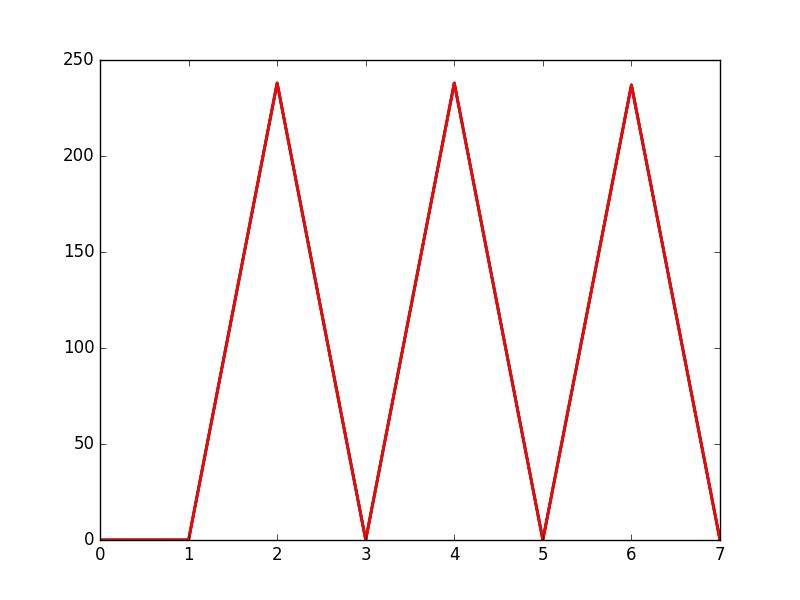
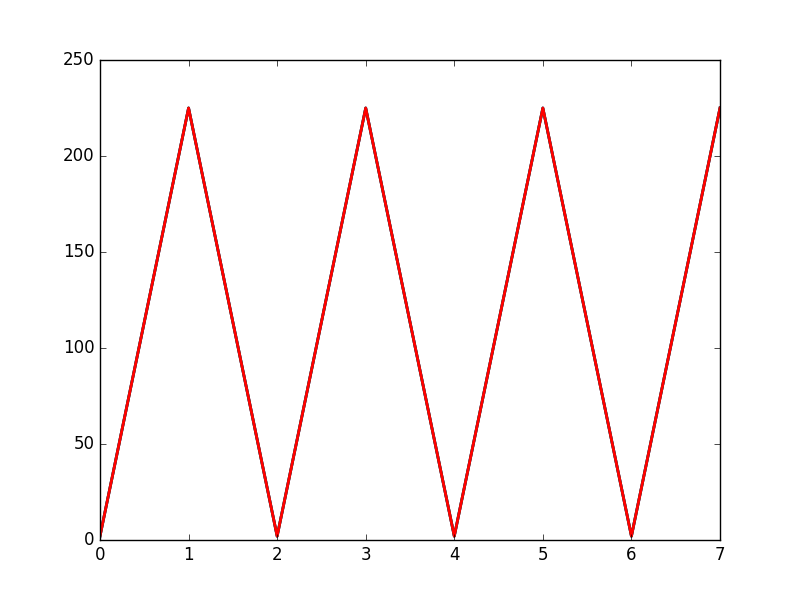
HW2: rewrite filter once again, fix some mistyping

diff --git a/task3-scaling/image_scaling.py b/task3-scaling/image_scaling.py
@@ -59,25 +59,26 @@ def part1():
     open("norm_row.txt", "w").write(str(cv2.norm(row4, scaled_up)))
 
 
-# filters the image with an ideal low frequency filter
+# filters an image row with an ideal low frequency filter
 def filter_low_freq(x, m, freq):
-    def gen_filter():
-        fltr = np.zeros((m + 1, 3))
-        for i in range(0, m + 1):
-            d = i - m / 2
-            for c in range(0, 3):
-                fltr[i][c] = 0.5 * (1 - cos(2 * pi * i / m)) * sin(freq * d) / (pi * d) if d != 0 else np.nan
-        return fltr
+    size = len(x)
+    fltr = np.zeros(size)
 
-    f = gen_filter()
-    n = len(x)
-    res = np.zeros((n, 3))
-    for n in range(0, n):
-        for k in range(max(0, n - m), n):
-            if np.isnan(f[n - k][0]):
-                res[n] = x[k]
-                break
-            res[n] += x[k] * f[n - k]
+    for n in range(0, m):
+        d = n - m / 2
+        w = 0.3 - 0.5 * cos(2 * pi * n / m)
+        if d != 0:
+            fltr[n] = sin(freq * d) / (pi * d) * w
+
+    res = np.zeros((size, 3), dtype="u1")
+
+    for n in range(0, size):
+        cell = np.zeros(3)
+        for k in range(0, m):
+            for i in range(0, 3):
+                cell[i] += fltr[k] * x[n - k][i]
+        res[n] = np.array(cell, dtype="u1")
+
     return res
 
 
@@ -88,7 +89,7 @@ def part2():
     scaled_up = scale(scaled_down, 1 / 8, 32)
     save_plot(scaled_down, "fig3_1.png")
     save_plot(scaled_up, "fig3_2.png")
-    open("norm_row_filt.txt", "w").write(str(cv2.norm(row4, scaled_up)))
+    open("norm_row_filt.txt", "w").write(str(cv2.norm(scaled_up, filtered)))
 
 
 def part3():
@@ -106,7 +107,7 @@ def part3():
 
     save_map(scaled_down, "fig5_1.png")
     save_map(scaled_up, "fig5_2.png")
-    row_norms = [cv2.norm(scaled_up[i], img[i]) for i in range(0, 32)]
+    row_norms = [cv2.norm(scaled_up[i], filtered[i]) for i in range(0, 32)]
     open("norm_image_filt.txt", "w").write(str(cv2.norm(np.array(row_norms, dtype="u1"))))
 
 
